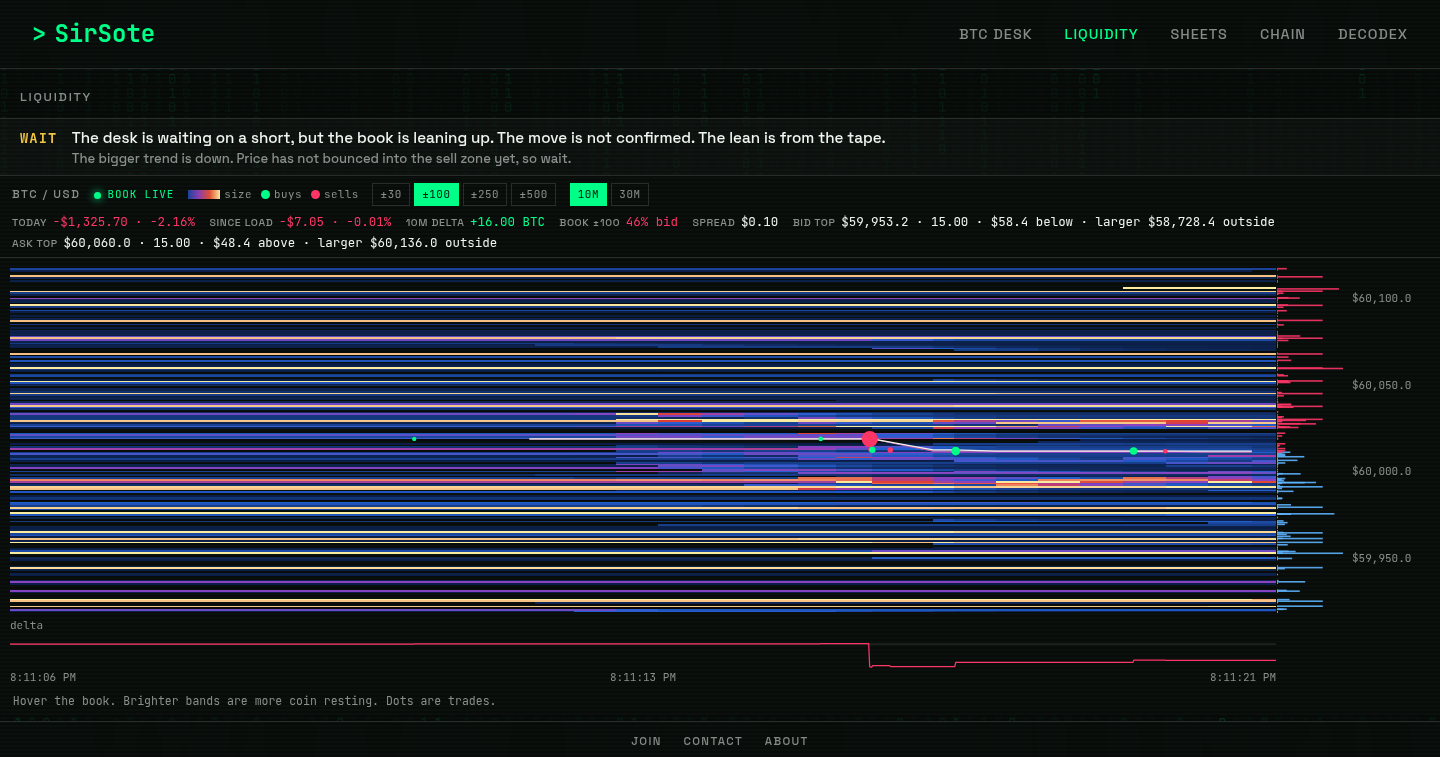
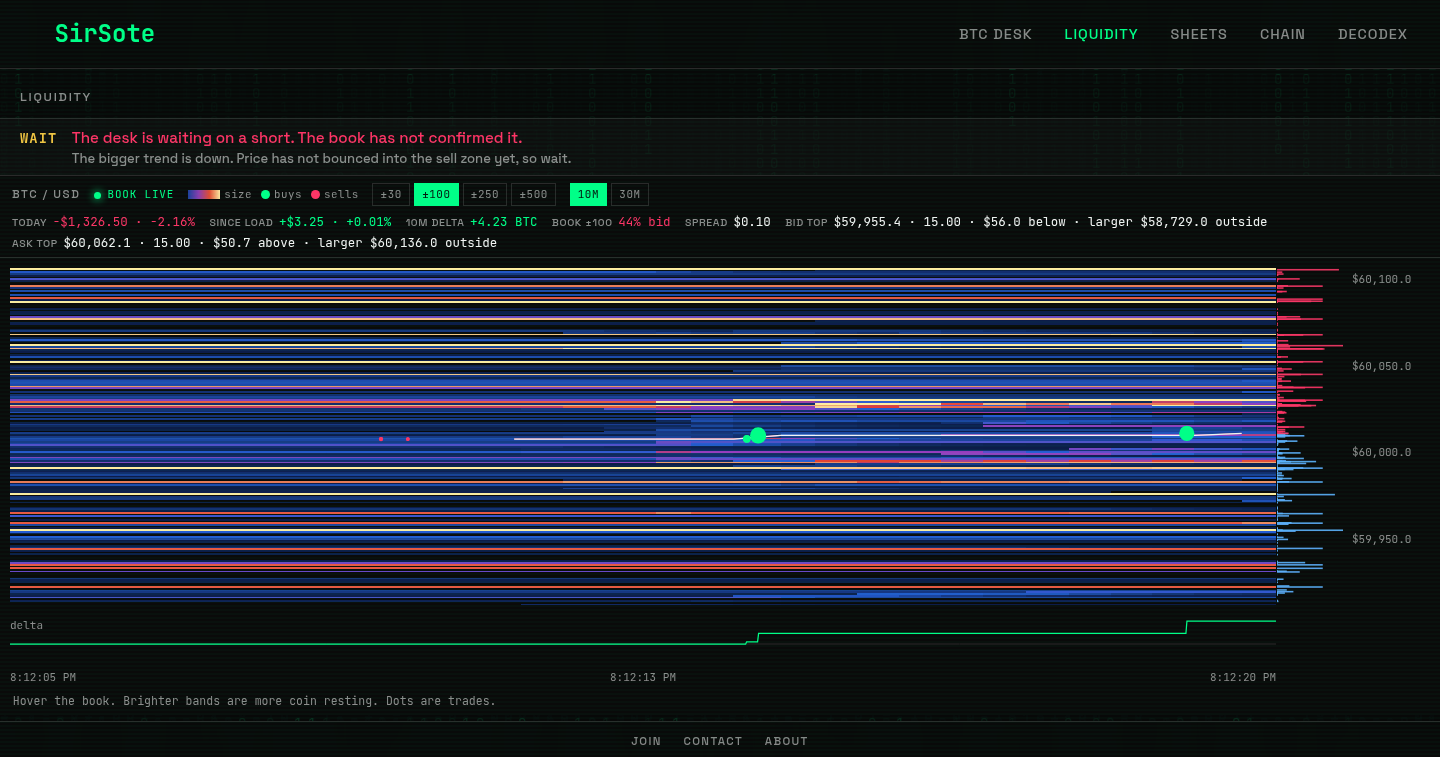
Update the sheet.

diff --git a/p/sheets/index.html b/p/sheets/index.html
@@ -36,7 +36,7 @@
             <div><dt>Swing</dt><dd><span class="call short">SHORT</span></dd></div>
             <div><dt>Hold</dt><dd><span class="call short">SHORT</span></dd></div>
         </dl>
-        <p class="why">Book <span class="call short">fights the path</span></p>
+        
         
         <p class="why">The bigger trend is down. Price has not bounced into the sell zone yet, so wait.</p>
         
